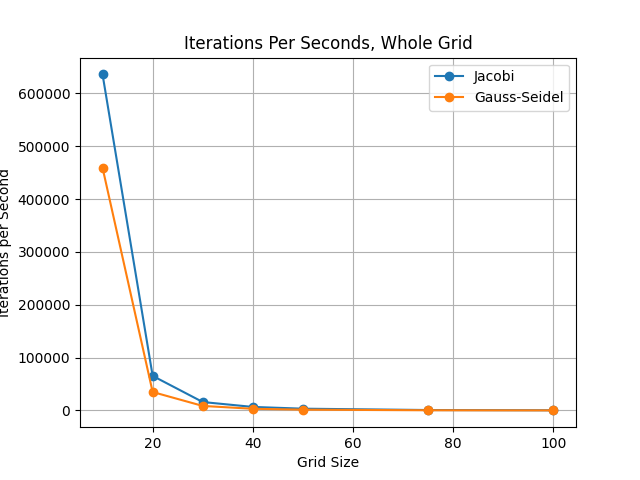
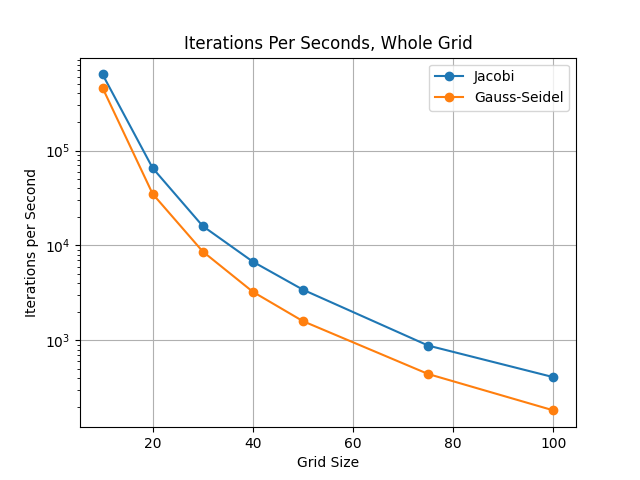
another fix

diff --git a/iterationspersecplot.py b/iterationspersecplot.py
@@ -65,6 +65,8 @@ if __name__ == "__main__":
     # for label, cache in caches:
     #     plt.axvline(x=cache, color='r', linestyle='--', linewidth=1, label=label)
     
+    plt.yscale('log')
+
     if args.log: 
         plt.xscale('log')
     
